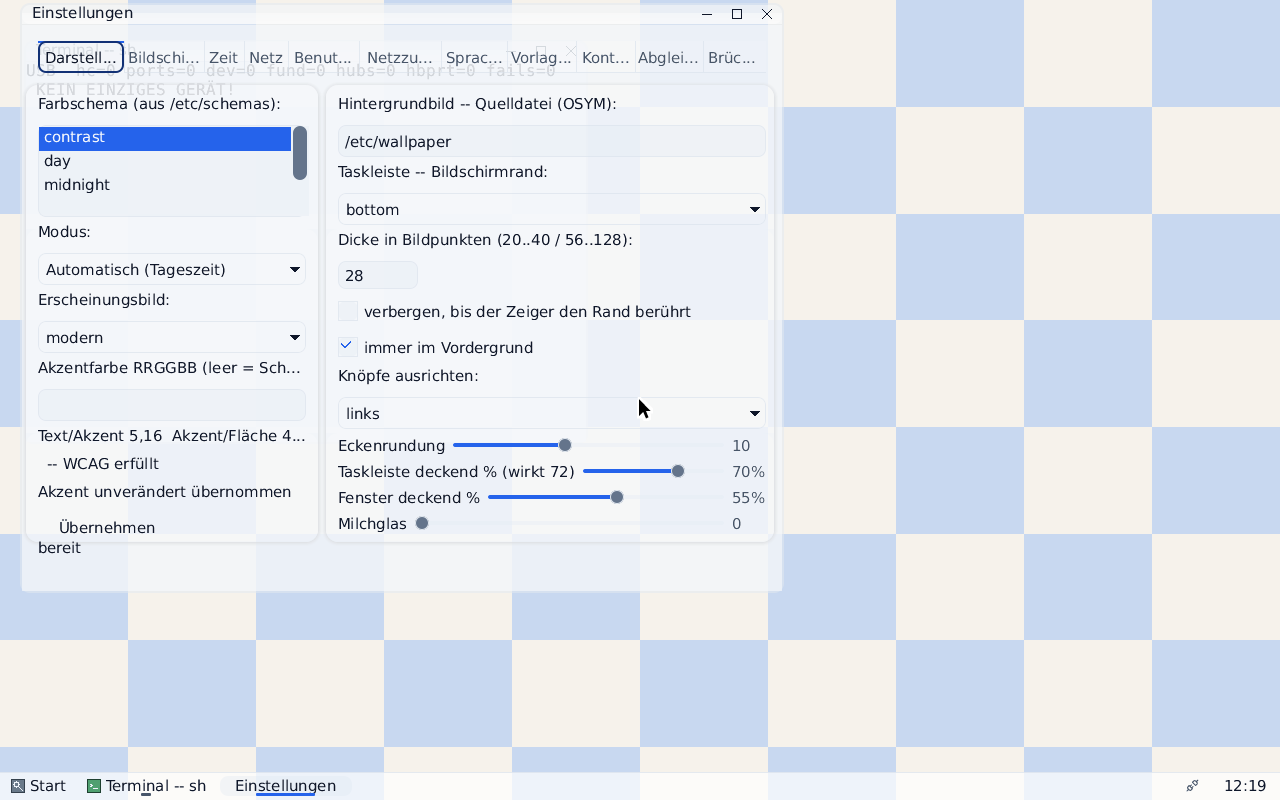
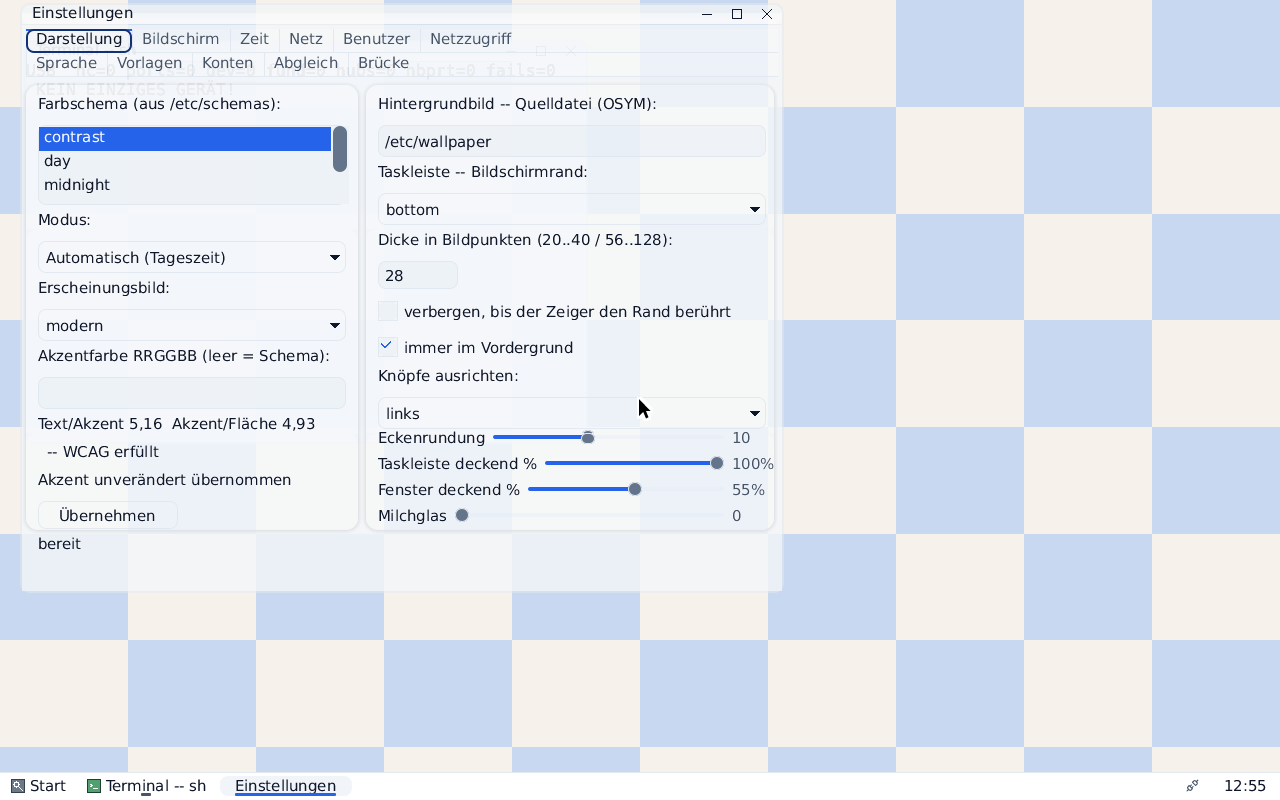
GLAS (bilder, fix-r3-2): Bild 13 neu -- der fremde Text laeuft nicht mehr durch die Reiter
Dieselbe Einstellung wie vorher (window_alpha=55 ueber dem gemusterten
Bild), aufgenommen nach der halbierten Lesbarkeitsschranke fuer
Fenster. Das Muster schlaegt weiter durch (39 120 Bildpunkte
Unterschied zu window_alpha=100), die USB-Zeile des Terminals ist aber
ein Schatten zwischen den Zeilen statt eines zweiten Textes in der
Reiterzeile. Mechanisch geprueft: empty 0, cut 0, overlapping 0,
ausserhalb 0, linie 0, knopf 1, ohnekante 0, Leiste 0/0/0.

diff --git a/docs/shots/glas/README.md b/docs/shots/glas/README.md
@@ -32,7 +32,7 @@ auch die, die nicht erreicht wurden.
 | 11-dunkles-bild-leiste-soll40-wirkt82-kontrast.png | Dunkles Hintergrundbild, Regler auf 40 %. Der NAME sagt, was das Bild zeigt: die Lesbarkeitsschranke hebt die wirksame Deckkraft von **soll 40** auf **wirkt 82** (`wm: glas alpha_soll=40 alpha_ist=82`), damit die Leistenschrift 4,5:1 haelt; gemessen gegen den GEMISCHTEN Grund: 12,33:1. Als Beleg fuer DURCHSICHT bei 40 % taugt es deshalb nicht -- dafuer ist Bild 21 da. |
 | 12-leiste-vergleich-ausschnitt-2x.png | SECHS Ausschnitte der Leiste uebereinander, 2-fach vergroessert, jede Reihe IM BILD beschriftet mit ihrer Reglerstellung UND der gemessenen Streuung: `100 % deckend -- var 0, 1 Farbe`, `70 % -- var 1597, 2`, `40 % -- var 6389, 2`, `Milchglas (blur=12, 70 %) -- var 788, 13`, `dunkles Schema, 40 %, grobes Muster, ohne Milchglas -- var 4102, 2`, `dasselbe mit Milchglas 16 -- var 3563, 36`. Die letzten zwei Reihen sind das Paar, das den Bildvergleich traegt: harte Kacheln gegen einen Verlauf. Gebaut von `tools/themestore/leistenvergleich.py` aus den Aufnahmen desselben Laufs; die Zahlen kommen aus `glascheck.leiste`/`hell`, und der Lauf haelt Bild und Messung Zahl fuer Zahl gegeneinander. |
 | 22-zug-endlage-unter-der-leiste.png | Der ZWEITE Zug-Lauf des Abnahmelaufs (Abschnitt 11f2, `click=400,10>400,210`, ohne Rueckweg): das Fenster steht in seiner Endlage und reicht mit der Unterkante unter die Leiste (`wm: schlieren ... unterpx=16044`, im ungezogenen Lauf 0). Gemessen: `empty 0 cut 0 overlapping 0 ausserhalb 0 linie 0`, und keine einzige `wm: zieh`-Zeile. Damit hat Messlatte 1 einen Beleg fuer die Endlage und einen fuer den Rueckweg (Bild 10) statt zweimal denselben. |
-| 13-fenster-transparenz-55-prozent.png | `window_alpha=55`: das Einstellungsfenster selbst ist durchsichtig, Muster und das Terminal darunter scheinen durch. |
+| 13-fenster-transparenz-55-prozent.png | `window_alpha=55` ueber dem gemusterten Bild: das Einstellungsfenster selbst ist durchsichtig, das Muster schlaegt durch. NEU AUFGENOMMEN nach fix-r3-2: die Lesbarkeitsschranke fuer Fenster ist halb so weit wie die der Leiste (`SCHLEIER_WIN=20`), deshalb laeuft die Ausgabe des Terminals darunter nicht mehr durch die Reiterzeile -- sie bleibt ein Schatten zwischen den Zeilen. Gemessen (`glascheck.py fenster`): 31 Beschriftungen, schlechtestes Paar 5,16:1, die Reiter 6,34:1 (vorher 5,26:1). |
 | 14-milchglas-mit-reglerstand.png | Leiste 60 %, Fenster 80 %, Milchglas 12 -- die Reglerstellungen im Bild stimmen mit der Wirkung ueberein. |
 | 15-fenster-unter-die-leiste-gezogen.png | Endlage nach einem Zug nach unten (ohne Rueckweg), **der Stand VOR dem Nachtrag**: `shotcheck.py` meldete hier 8 leere Beschriftungen (die anderen Bilder: 0). **BEFUND, aufgeklaert -- es waren drei Sachen und keine davon ein leerer Rumpf:** (1) der Griffpunkt 400,10 lag im oberen Greifrand, der Lauf zog also nie, sondern schob die Oberkante auf die Mindesthoehe (`wm: zieh k=4 ... h=16`) -- der "leere Rumpf" ist ein zusammengeschobenes Fenster; (2) das Programm meldete seine Beschriftungen weiter zu dem Ursprung, an dem es ANGELEGT wurde, weil `win_ort_holen` im Anstrich nicht gerufen wurde -- `wlib.flush_win` fragt die wahre Stelle jetzt vor jedem Anstrich; (3) bei 400,600 haengt das untere Drittel unter dem Bildrand, und was der Schirm nicht zeigt, ist keine leere Beschriftung -- `shotcheck.py` zaehlt das jetzt als `ausserhalb` und benennt es. Nach dem Nachtrag: `empty 0 cut 0 overlapping 0 ausserhalb 0` (Bild 19, Zug auf 400,210, Ueberlappung mit der Leiste 16044 Bildpunkte vom Server und 15960 vom Wirt gerechnet). Siehe RUNDE-GLAS.md, Abschnitt 8.1. |
 

diff --git a/.gauntlet-shots/README.md b/.gauntlet-shots/README.md
@@ -30,7 +30,7 @@ Herkunft:
 | 11-dunkles-bild-leiste-soll40-wirkt82-kontrast.png | Dunkles Hintergrundbild, Regler auf 40 %. Der NAME sagt, was das Bild zeigt: die Lesbarkeitsschranke hebt die wirksame Deckkraft von **soll 40** auf **wirkt 82** (`wm: glas alpha_soll=40 alpha_ist=82`), damit die Leistenschrift 4,5:1 haelt; gemessen gegen den GEMISCHTEN Grund: 12,33:1. Als Beleg fuer DURCHSICHT bei 40 % taugt es deshalb nicht -- dafuer ist Bild 21 da. |
 | 12-leiste-vergleich-ausschnitt-2x.png | SECHS Ausschnitte der Leiste uebereinander, 2-fach vergroessert, jede Reihe IM BILD beschriftet mit ihrer Reglerstellung UND der gemessenen Streuung: `100 % deckend -- var 0, 1 Farbe`, `70 % -- var 1597, 2`, `40 % -- var 6389, 2`, `Milchglas (blur=12, 70 %) -- var 788, 13`, `dunkles Schema, 40 %, grobes Muster, ohne Milchglas -- var 4102, 2`, `dasselbe mit Milchglas 16 -- var 3563, 36`. Die letzten zwei Reihen sind das Paar, das den Bildvergleich traegt: harte Kacheln gegen einen Verlauf. Gebaut von `tools/themestore/leistenvergleich.py` aus den Aufnahmen desselben Laufs; die Zahlen kommen aus `glascheck.leiste`/`hell`, und der Lauf haelt Bild und Messung Zahl fuer Zahl gegeneinander. |
 | 22-zug-endlage-unter-der-leiste.png | Der zweite Zug-Lauf der Abnahme (ohne Rueckweg): das Fenster steht in seiner Endlage unter der Leiste, Schnittflaeche 16044 Bildpunkte (`wm: schlieren ... unterpx=16044`). `empty 0 cut 0 overlapping 0 linie 0`. |
-| 13-fenster-transparenz-55-prozent.png | `window_alpha=55`: das Einstellungsfenster selbst ist durchsichtig, Muster und das Terminal darunter scheinen durch. Regler zeigt "Fenster deckend % 55%". |
+| 13-fenster-transparenz-55-prozent.png | `window_alpha=55` ueber dem gemusterten Bild: das Einstellungsfenster selbst ist durchsichtig, das Muster schlaegt durch. NEU AUFGENOMMEN nach fix-r3-2: die Lesbarkeitsschranke fuer Fenster ist halb so weit wie die der Leiste (`SCHLEIER_WIN=20`), deshalb laeuft die Ausgabe des Terminals darunter nicht mehr durch die Reiterzeile -- sie bleibt ein Schatten zwischen den Zeilen. Gemessen (`glascheck.py fenster`): 31 Beschriftungen, schlechtestes Paar 5,16:1, die Reiter 6,34:1 (vorher 5,26:1). |
 | 14-milchglas-mit-reglerstand.png | Leiste 60 %, Fenster 80 %, Milchglas 12 -- die Reglerstellungen im Bild stimmen mit der Wirkung ueberein, die Leiste ist sichtbar verwischt. |
 | 18-regler-zeigt-wirksames-alpha.png | Seite "Darstellung" ueber dem DUNKLEN Bild, Regler der Taskleiste auf 40 %: die Beschriftung lautet "Taskleiste deckend % (wirkt 82)" -- die Untergrenze wird angezeigt statt still zu wirken. |
 | 19-zug-unter-die-leiste-neu.png | Zug auf 400,210 OHNE Rueckweg: das Fenster steht bei y=203 und reicht mit der Unterkante unter die Leiste (Schnittflaeche 16044 Bildpunkte, vom Server gerechnet). Der Rumpf ist vollstaendig gemalt, kein Rest steht. |
@@ -40,4 +40,8 @@ Herkunft:
 Mechanische Pruefung (`tools/themestore/shotcheck.py`, gegen die Rechtecke,
 die die Programme selbst gemeldet haben): fuer alle Laeufe dieses Satzes
 `empty 0  cut 0  overlapping 0  ausserhalb 0  verdeckt 0`
-(`gekuerzt 9` sind die absichtlich mit "..." verkuerzten Reiterbeschriftungen).
+(`gekuerzt 0`: seit dem Umbau der Reiterleiste auf ZWEI ZEILEN muss kein
+einziger Reitername mehr gekuerzt werden -- vorher waren es neun von elf --,
+und die drei gekuerzten Fliesstextzeilen der linken Spalte stehen ganz da,
+weil die Spalte von 300 auf 340 Bildpunkte gewachsen ist. `shotcheck.py`
+zaehlt beides seither getrennt: `reiterkurz 0  fliesskurz 0`).
